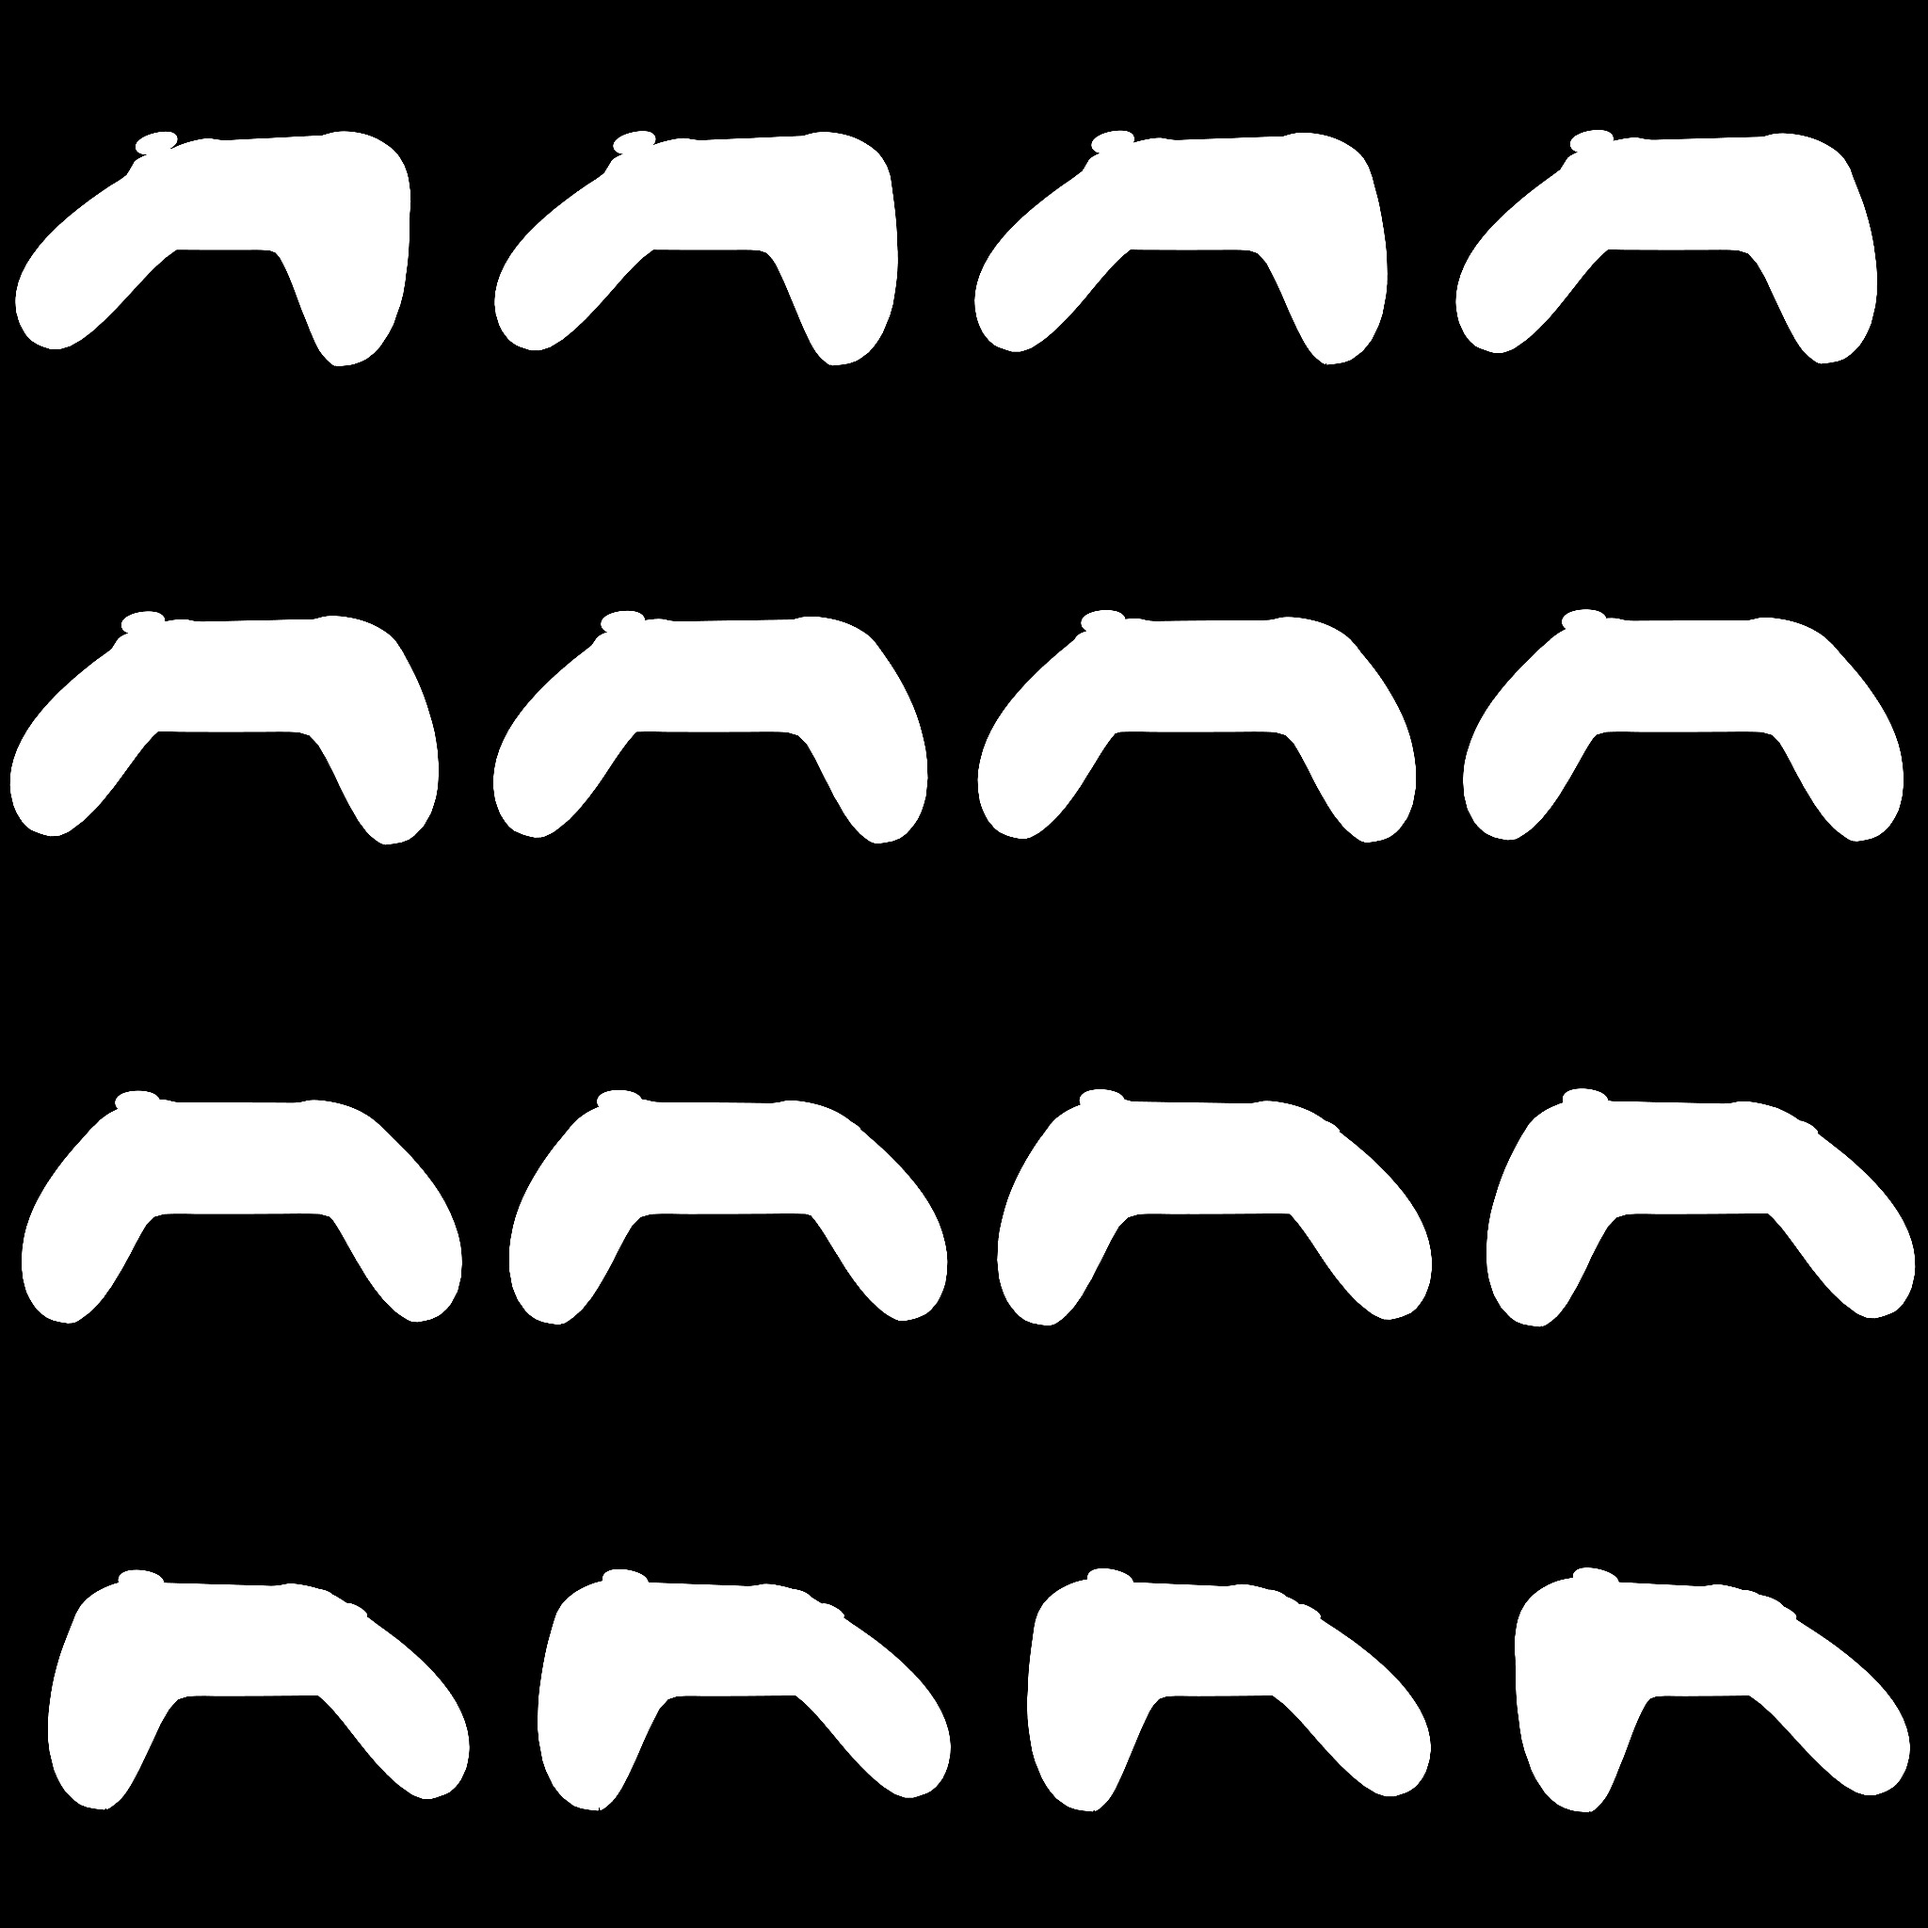
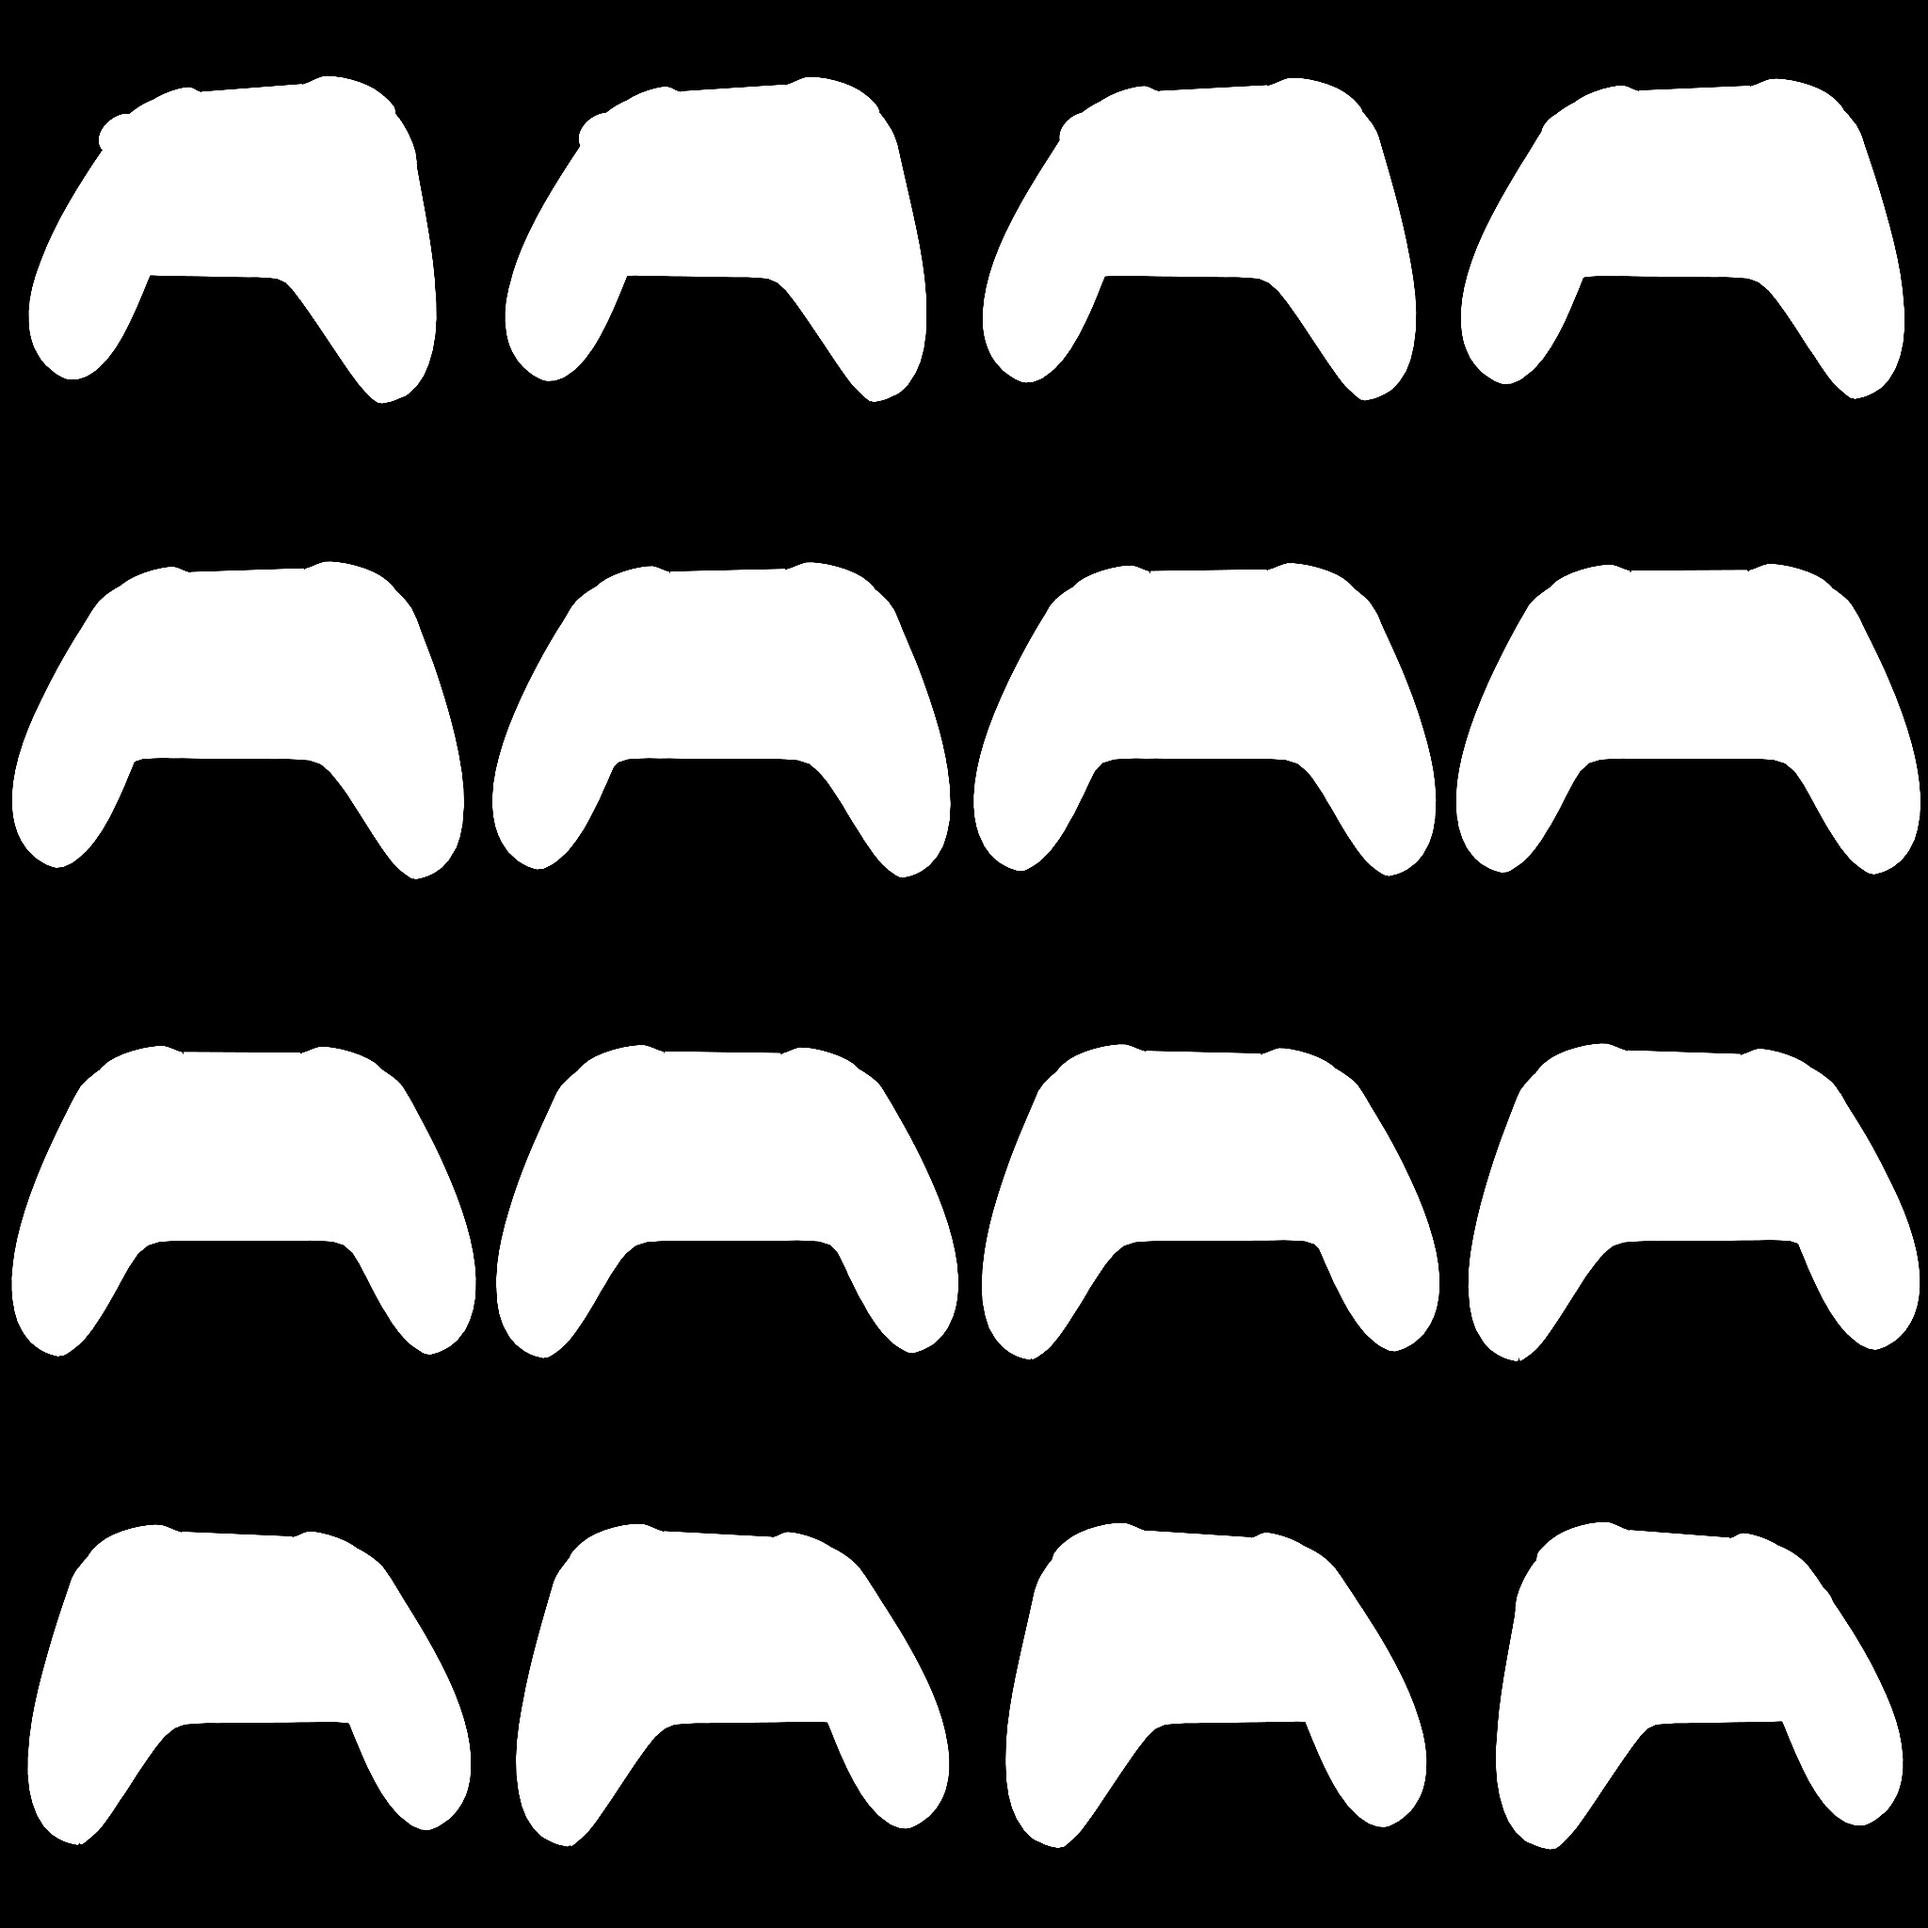
Calibra controles 3D: ângulo do Xbox e PS5, telas do PS5 e Game Boy
- Xbox (-18°) e DualSense (-68°) de frente, como o Switch
- Tela do PS5 ajustada ao touchpad (cantos arredondados, plano elevado)
- Game Boy: alphaTest descarta o vidro que projetava um quadro preto; tela na
  profundidade do LCD; máscara de tela em meia resolução (bordas nítidas)
- Shader: brilho do reel só dentro da tela (sem fantasma no corpo branco)

diff --git a/tools/baker/gltf.js b/tools/baker/gltf.js
@@ -28,8 +28,9 @@ export async function hasModel(file) {
  *  rotation  — [x, y, z] degrees applied before centring (fix the asset's up/front)
  *  screen    — RegExp tested against mesh and material names → reel mask
  *  hide      — RegExp of meshes to drop (stands, ground planes, cables…)
- *  screenPlane — optional fallback { x, y, z, w, h, rx, ry, rz } in normalised
- *                model space (-0.5..0.5) when the asset has no separate screen mesh
+ *  alphaTest — discard texels below this alpha (glass covers that would cast shadows)
+ *  screenPlane — optional fallback { x, y, z, w, h, rx, ry, rz, radius, lift, snap } in
+ *                normalised model space (-0.5..0.5) when the asset has no separate screen mesh
  */
 export async function loadModel(opts) {
   const gltf = await loader.loadAsync(MODEL_DIR + opts.file);
@@ -80,6 +81,13 @@ export async function loadModel(opts) {
       if (!m) continue;
       if ('envMapIntensity' in m) m.envMapIntensity = 1;
       m.side = THREE.FrontSide;
+      // alphaTest: drop nearly transparent texels (e.g. a glass cover), which would
+      // otherwise still cast a solid shadow on what is under them
+      if (opts.alphaTest) {
+        m.alphaTest = opts.alphaTest;
+        m.transparent = false;
+        m.depthWrite = true;
+      }
     }
   });
   drop.forEach((o) => o.parent.remove(o));
@@ -95,10 +103,24 @@ export async function loadModel(opts) {
 
   if (!screens && opts.screenPlane) {
     const p = opts.screenPlane;
-    const plane = new THREE.Mesh(
-      new THREE.PlaneGeometry(p.w * size.x, p.h * (p.snap === 'y' || p.snap === '-y' ? size.z : size.y)),
-      new THREE.MeshPhysicalMaterial({ color: 0x07090c, roughness: 0.06, clearcoat: 1 }),
-    );
+    const pw = p.w * size.x, ph = p.h * (p.snap === 'y' || p.snap === '-y' ? size.z : size.y);
+    // radius (fraction of the shorter side) rounds the corners like the real panel
+    let geo = new THREE.PlaneGeometry(pw, ph);
+    if (p.radius) {
+      const r = Math.min(pw, ph) * p.radius, x = -pw / 2, y = -ph / 2;
+      const sh = new THREE.Shape();
+      sh.moveTo(x + r, y);
+      sh.lineTo(x + pw - r, y);
+      sh.quadraticCurveTo(x + pw, y, x + pw, y + r);
+      sh.lineTo(x + pw, y + ph - r);
+      sh.quadraticCurveTo(x + pw, y + ph, x + pw - r, y + ph);
+      sh.lineTo(x + r, y + ph);
+      sh.quadraticCurveTo(x, y + ph, x, y + ph - r);
+      sh.lineTo(x, y + r);
+      sh.quadraticCurveTo(x, y, x + r, y);
+      geo = new THREE.ShapeGeometry(sh, 12);
+    }
+    const plane = new THREE.Mesh(geo, new THREE.MeshPhysicalMaterial({ color: 0x07090c, roughness: 0.06, clearcoat: 1 }));
     plane.position.set(p.x * size.x, p.y * size.y, p.z * size.z);
     plane.rotation.set(THREE.MathUtils.degToRad(p.rx ?? 0), THREE.MathUtils.degToRad(p.ry ?? 0), THREE.MathUtils.degToRad(p.rz ?? 0));
     if (p.snap) {
@@ -128,7 +150,8 @@ export async function loadModel(opts) {
       if (hit) {
         const n = hit.face.normal.clone().transformDirection(hit.object.matrixWorld).normalize();
         const at = wrap.worldToLocal(hit.point.clone());
-        plane.position.copy(at).addScaledVector(n, size.z * 0.004);
+        // lift: clearance over a slightly curved surface (fraction of the model depth)
+        plane.position.copy(at).addScaledVector(n, size.z * (p.lift ?? 0.004));
         plane.lookAt(wrap.localToWorld(at.clone().add(n)));
         if (alongY) plane.rotateZ(Math.PI); // keep the texture upright when looking down
       } else {

diff --git a/tools/baker/bake.js b/tools/baker/bake.js
@@ -100,7 +100,9 @@ const passVS = /* glsl */`
   varying vec3 vObj;
   varying vec4 vClipCur;
   varying vec4 vClipNext;
+  varying vec2 vUv;
   void main() {
+    vUv = uv;
     vec4 world = modelMatrix * vec4(position, 1.0);
     vObj = (uInvPivot * world).xyz;
     vClipCur = projectionMatrix * viewMatrix * world;
@@ -115,10 +117,14 @@ const passFS = /* glsl */`
   uniform vec3 uBSize;
   uniform float uScreen;
   uniform float uMVScale;     // converts cell-uv delta into encoded range
+  uniform sampler2D uMap;     // same cut-out as the beauty pass (material.alphaTest)
+  uniform float uAlphaTest;
   varying vec3 vObj;
   varying vec4 vClipCur;
   varying vec4 vClipNext;
+  varying vec2 vUv;
   void main() {
+    if (uAlphaTest > 0.0 && texture2D(uMap, vUv).a < uAlphaTest) discard;
     if (uMode == 0) {
       gl_FragColor = vec4(clamp((vObj - uBMin) / uBSize, 0.0, 1.0), 1.0);
     } else if (uMode == 1) {
@@ -245,7 +251,7 @@ window.bakeModel = async function bakeModel(name, cell = 1024) {
     alpha: makeCanvas((cell * COLS) / 2),
     position: makeCanvas((cell * COLS) / 4),
     mv: makeCanvas((cell * COLS) / 4),
-    data: makeCanvas((cell * COLS) / 4),
+    data: makeCanvas((cell * COLS) / 2), // half res: crisp screen edges
   };
   const ctx = Object.fromEntries(Object.entries(atlas).map(([k, c]) => [k, c.getContext('2d', { willReadFrequently: true })]));
   for (const k of ['diffuse']) { ctx[k].fillStyle = '#16181b'; ctx[k].fillRect(0, 0, atlas[k].width, atlas[k].height); }
@@ -258,13 +264,18 @@ window.bakeModel = async function bakeModel(name, cell = 1024) {
   const meshes = [];
   model.traverse((o) => { if (o.isMesh) { meshes.push(o); o.castShadow = !o.userData.noCastShadow; o.receiveShadow = true; } });
   const original = new Map(meshes.map((m) => [m, m.material]));
-  const passMat = new Map(meshes.map((m) => [m, new THREE.ShaderMaterial({
-    vertexShader: passVS, fragmentShader: passFS, side: THREE.DoubleSide,
-    uniforms: {
-      uMode: { value: 0 }, uBMin: { value: bMin }, uBSize: { value: bSize }, uScreen: { value: m.userData.screen ? 1 : 0 },
-      uMVScale: { value: 1 }, uDelta: { value: new THREE.Matrix4() }, uInvPivot: { value: new THREE.Matrix4() },
-    },
-  })]));
+  const passMat = new Map(meshes.map((m) => {
+    const src = Array.isArray(m.material) ? m.material[0] : m.material;
+    const cut = src?.alphaTest > 0 && src.map ? src.alphaTest : 0;
+    return [m, new THREE.ShaderMaterial({
+      vertexShader: passVS, fragmentShader: passFS, side: THREE.DoubleSide,
+      uniforms: {
+        uMode: { value: 0 }, uBMin: { value: bMin }, uBSize: { value: bSize }, uScreen: { value: m.userData.screen ? 1 : 0 },
+        uMVScale: { value: 1 }, uDelta: { value: new THREE.Matrix4() }, uInvPivot: { value: new THREE.Matrix4() },
+        uMap: { value: cut ? src.map : null }, uAlphaTest: { value: cut },
+      },
+    })];
+  }));
 
   // pass 0: measure max motion to choose displacement strength
   const yawMat = (i) => new THREE.Matrix4().makeRotationY(frameYaw(cfg, Math.min(i, FRAMES - 1)));

diff --git a/tools/baker/models.js b/tools/baker/models.js
@@ -723,11 +723,11 @@ function buildHeadset() {
 export const MODELS = {
   // `glb`: ready-made model used instead of the procedural one when the file exists in
   // tools/baker/models (Sketchfab CC-BY downloads — see docs/3d-pipeline.md for credits)
-  playstation: { build: buildPlaystation, pitch: -48, roll: 0, yaw: [-32, 32], fill: 0.94, glb: { file: 'playstation_5_dualsense.glb', size: 3.4, rotation: [-90, 0, 180], screenPlane: { x: 0, y: 0, z: 0.33, w: 0.37, h: 0.27, snap: '-y' } } },
+  playstation: { build: buildPlaystation, pitch: -68, roll: 0, yaw: [-32, 32], fill: 0.94, glb: { file: 'playstation_5_dualsense.glb', size: 3.4, rotation: [-90, 0, 180], screenPlane: { x: 0, y: 0, z: 0.315, w: 0.34, h: 0.235, radius: 0.2, lift: 0.035, snap: '-y' } } },
   switch: { build: buildSwitch, pitch: -14, roll: 0, yaw: [-30, 30], fill: 0.94, glb: { file: 'nintendo_switch.glb', size: 3.4, screen: /screen_19|screen001|cube_screen_glass/i } },
-  xbox: { build: buildXbox, pitch: -48, roll: 0, yaw: [-32, 32], fill: 0.94, envIntensity: 1.35, glb: { file: 'xbox_controller.glb', size: 3.4 } },
+  xbox: { build: buildXbox, pitch: -18, roll: 0, yaw: [-32, 32], fill: 0.94, envIntensity: 1.35, glb: { file: 'xbox_controller.glb', size: 3.4 } },
   logo: { build: buildLogo, pitch: -8, roll: 0, yaw: [-34, 34], fill: 0.94 },
-  handheld: { build: buildHandheld, pitch: -10, roll: -6, yaw: [-30, 30], fill: 0.94, legacyEnv: true, envIntensity: 0.85, ao: 0, glb: { file: 'gameboy.glb', size: 3.0, screenPlane: { x: 0.025, y: 0.215, z: 0.452, w: 0.5, h: 0.31 } } },
+  handheld: { build: buildHandheld, pitch: -10, roll: -6, yaw: [-30, 30], fill: 0.94, legacyEnv: true, envIntensity: 0.85, ao: 0, glb: { file: 'gameboy.glb', size: 3.0, alphaTest: 0.5, screenPlane: { x: 0.01, y: 0.215, z: 0.39, w: 0.522, h: 0.322 } } },
   cartridge: { build: buildCartridge, pitch: -12, roll: 6, yaw: [-34, 34], fill: 0.94, legacyEnv: true, envIntensity: 0.85, ao: 0 },
   joystick: { build: buildJoystick, pitch: -62, roll: 0, yaw: [-34, 34], fill: 0.94, legacyEnv: true, envIntensity: 0.85, ao: 0 },
   crt: { build: buildCRT, pitch: -8, roll: 0, yaw: [-30, 30], fill: 0.94, legacyEnv: true, envIntensity: 0.85, ao: 0 },

diff --git a/src/gl/shaders.ts b/src/gl/shaders.ts
@@ -318,7 +318,9 @@ void main() {
     reel += maskedUV.x*maskedUV.y * 0.1;
 
     color.rgb = mix(color.rgb, reel, smoothstep(0.0, 0.2, maskValue));
-    color.rgb *= 1.0 + reel.r * 0.1;
+    // reference brightens the whole object with the reel; keep it to the screen so
+    // the reel does not ghost through light bodies (Game Boy)
+    color.rgb *= 1.0 + reel.r * 0.1 * smoothstep(0.0, 0.2, maskValue);
   }
 
   float lightMove = sin(vUv.x * 2.0 - uMouse.x * 6.0 - time * 0.1 + uRandom) + sin(vUv.y*5.0+time * 0.1 + uRandom)*0.5;

diff --git a/docs/3d-pipeline.md b/docs/3d-pipeline.md
@@ -41,10 +41,16 @@ Modelos em uso (OBSERVADO: metadados `asset.extras` de cada `.glb` exportado pel
 
 | Arquivo | Modelo | Autor | Licença | Tela (reel) |
 |---|---|---|---|---|
-| `playstation_5_dualsense.glb` | [Playstation 5 Dualsense](https://sketchfab.com/3d-models/playstation-5-dualsense-878c1f882808477ab81c2fe86d5a3936) | AHarmlessPotato | CC BY 4.0 | plano no touchpad (`screenPlane`, encaixado por raycast `-y`) |
+| `playstation_5_dualsense.glb` | [Playstation 5 Dualsense](https://sketchfab.com/3d-models/playstation-5-dualsense-878c1f882808477ab81c2fe86d5a3936) | AHarmlessPotato | CC BY 4.0 | plano de cantos arredondados no touchpad (`screenPlane` com `radius`/`lift`, encaixado por raycast `-y`) |
 | `xbox_controller.glb` | [Xbox Controller](https://sketchfab.com/3d-models/xbox-controller-32d17951703b4e05abed11a1c65f5909) | umkhero | CC BY 4.0 | — |
 | `nintendo_switch.glb` | [Nintendo Switch](https://sketchfab.com/3d-models/nintendo-switch-b94e6a6a8c564fee81c2d794da6c5712) | gabrieljuan0322 | CC BY 4.0 | malhas `screen_19`, `screen001`, `cube_screen_glass` |
-| `gameboy.glb` | [GAMEBOY](https://sketchfab.com/3d-models/gameboy-4a1da0cefa904c4eae895338bd6f3334) | grimmorf | CC BY 4.0 | plano fixo sobre o LCD (`screenPlane`) |
+| `gameboy.glb` | [GAMEBOY](https://sketchfab.com/3d-models/gameboy-4a1da0cefa904c4eae895338bd6f3334) | grimmorf | CC BY 4.0 | plano fixo na profundidade do LCD, atrás do vidro (`screenPlane`) |
+
+Calibração (rodada 5), verificada sobrepondo o contorno da máscara `data` a um bake sem o plano:
+- Inclinação (`pitch`): Xbox −18° e DualSense −68° (o eixo do arquivo é invertido), de frente como o Switch (−14°).
+- Game Boy: o material do arquivo é `BLEND` e o vidro da tela, quase transparente, projetava uma sombra sólida (o "quadro" preto deslocado sobre a tela). `alphaTest: 0.5` descarta o vidro na cor, na sombra e nos passes de dados.
+- A máscara `data` agora é assada em meia resolução (512 px por quadro), com bordas da tela mais nítidas.
+- O shader de runtime clareia o objeto com o reel só dentro da máscara; no original o efeito vale para o objeto inteiro, o que "fantasmava" o reel no corpo branco do Game Boy.
 
 Os créditos CC BY aparecem no site, no rodapé de todas as páginas com `PageFooter`/`NextFooter` (`src/components/ModelCredits.tsx`, dados em `MODEL_CREDITS` de `src/data/site.ts`).
 
